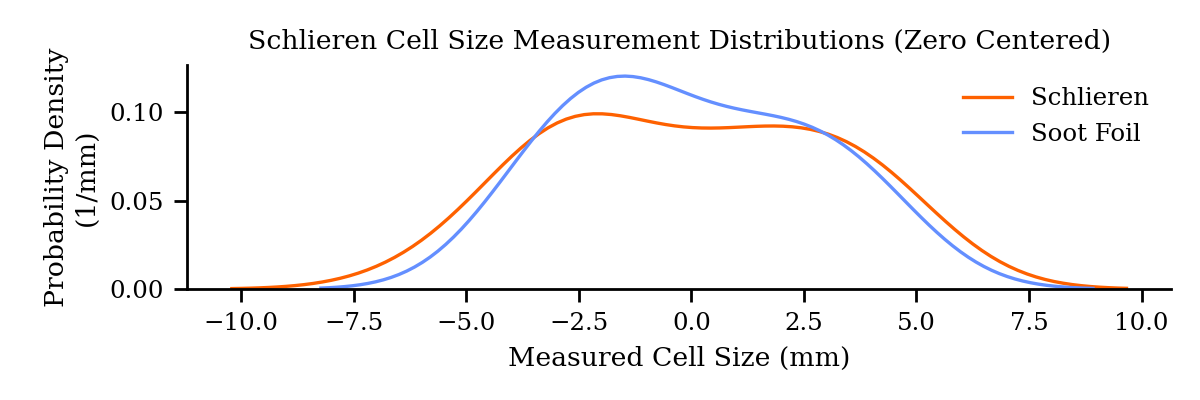
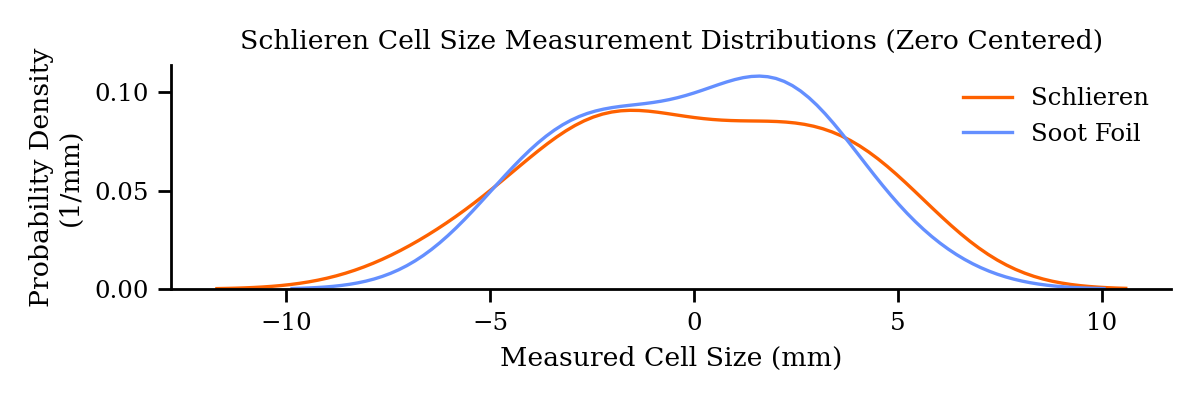
Remove outlier detection/removal

diff --git a/scripts/measurement_paper/generate_images.py b/scripts/measurement_paper/generate_images.py
@@ -288,13 +288,18 @@ def build_schlieren_images(
         plt.savefig(f"{name}.{PLOT_FILETYPE}")
 
 
-def calculate_schlieren_cell_size(df_tube_data):
+def calculate_schlieren_cell_size(
+        df_tube_data,
+        iqr_fencing=False,
+):
     """
     
     Parameters
     ----------
     df_tube_data : pd.DataFrame
         DataFrame containing schlieren data
+    iqr_fencing : bool
+        Remove outliers using IQR fencing?
 
     Returns
     -------
@@ -306,13 +311,18 @@ def calculate_schlieren_cell_size(df_tube_data):
         * Number of measurements
     """
     meas = df_tube_data["cell_size"]
-    meas_mean = meas.mean()
-    meas_std = meas.std()
-    mask = (
-            (meas_mean - 1.5 * meas_std <= meas) &
-            (meas <= meas_mean + 1.5 * meas_std)
-    )
-    del meas_std, meas_mean  # make sure we use reduced dataset!
+    if iqr_fencing:
+        # remove outliers
+        meas_mean = meas.mean()
+        meas_std = meas.std()
+        mask = (
+                (meas_mean - 1.5 * meas_std <= meas) &
+                (meas <= meas_mean + 1.5 * meas_std)
+        )
+        del meas_std, meas_mean  # make sure we use reduced dataset!
+    else:
+        # leave em
+        mask = np.ones(len(df_tube_data), dtype=bool)
     meas = unp.uarray(
         meas[mask],
         df_tube_data["u_cell_size"][mask].values,
@@ -799,6 +809,7 @@ def plot_single_foil_delta_distribution(
 # noinspection PyUnresolvedReferences
 def calculate_soot_foil_cell_size(
         # n_schlieren_meas,
+        iqr_fencing,
 ):
     """
     Calculates the mean cell size from soot foil images
@@ -811,6 +822,8 @@ def calculate_soot_foil_cell_size(
         in case it needs to be used again later, however the randomly selected
         batch of measurements from the first time this was run has been
         preserved and will be used for the sake of continuity.
+    iqr_fencing : bool
+        Remove outliers using IQR fencing?
 
     Returns
     -------
@@ -873,24 +886,26 @@ def calculate_soot_foil_cell_size(
         d_mm = d_px * cal_mm / cal_px
         measurements[idx] = np.sum(d_mm) / len(d_mm)
 
-    # remove outliers
     meas_nominal = unp.nominal_values(measurements)
-    mean = meas_nominal.mean()
-    std = meas_nominal.std()
-    meas_mask = (meas_nominal <= mean + std * 1.5) &\
-                (meas_nominal >= mean - std * 1.5)
-    measurements = measurements[meas_mask]
-    meas_nominal = meas_nominal[meas_mask]
-    del mean, std  # don't accidentally reuse these!
+
+    if iqr_fencing:
+        # remove outliers
+        mean = meas_nominal.mean()
+        std = meas_nominal.std()
+        meas_mask = (meas_nominal <= mean + std * 1.5) &\
+                    (meas_nominal >= mean - std * 1.5)
+        measurements = measurements[meas_mask]
+        meas_nominal = meas_nominal[meas_mask]
+        del mean, std  # don't accidentally reuse these!
 
     # scale to match number of samples with schlieren
-    # reduced_indices = np.random.choice(
+    # reduced_indices = sorted(np.random.choice(
     #     np.arange(len(measurements)),
     #     n_schlieren_meas,
     #     replace=False,
-    # )
-    # copy/paste result for consistency between runs of the notebook
-    reduced_indices = [0, 1, 2, 6, 7, 9, 10, 11, 12, 13, 14, 15, 16, 17]
+    # ))
+    reduced_indices = [0, 1, 3, 5, 8, 9, 10, 11, 12, 13, 14, 15, 16, 17, 18]
+
     measurements = measurements[reduced_indices]
     meas_nominal = meas_nominal[reduced_indices]
 
@@ -1113,6 +1128,7 @@ def get_title_block(title):
 
 
 def main(
+        remove_outliers,
         save,
 ):
     cmap = "Greys_r"
@@ -1133,7 +1149,10 @@ def main(
     (cell_size_meas_schlieren,
      cell_size_uncert_schlieren,
      schlieren_meas,
-     n_schlieren_meas) = calculate_schlieren_cell_size(df_schlieren_tube)
+     n_schlieren_meas) = calculate_schlieren_cell_size(
+        df_schlieren_tube,
+        remove_outliers,
+    )
     plot_schlieren_measurement_distribution(
         unp.nominal_values(schlieren_meas),
         cell_size_meas_schlieren,
@@ -1167,7 +1186,7 @@ def main(
     )
     (measurements_foil,
      cell_size_meas_foil,
-     cell_size_uncert_foil) = calculate_soot_foil_cell_size()
+     cell_size_uncert_foil) = calculate_soot_foil_cell_size(remove_outliers)
     plot_soot_foil_measurement_distribution(
         unp.nominal_values(measurements_foil),
         cell_size_meas_foil,
@@ -1249,6 +1268,7 @@ def main(
 
 
 if __name__ == "__main__":
+    remove_outliers_from_data = False
     save_results = True
-    main(save_results)
+    main(remove_outliers_from_data, save_results)
     plt.show()
